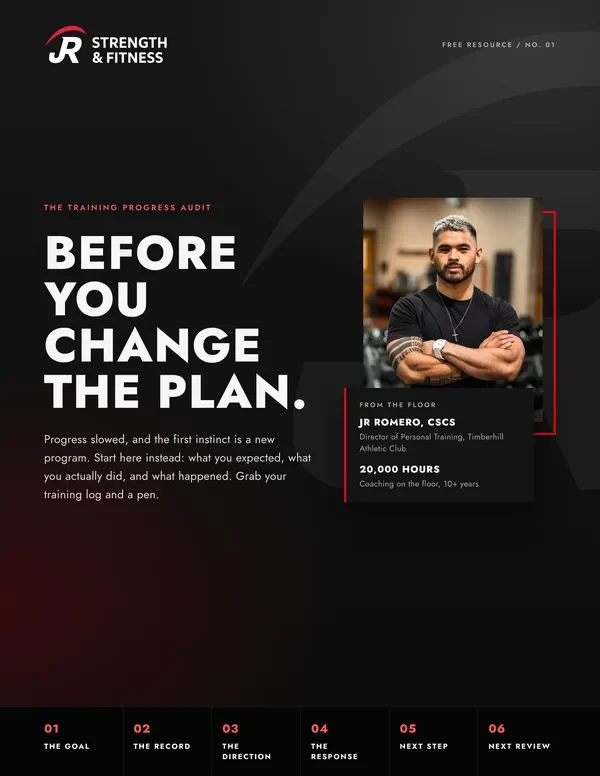
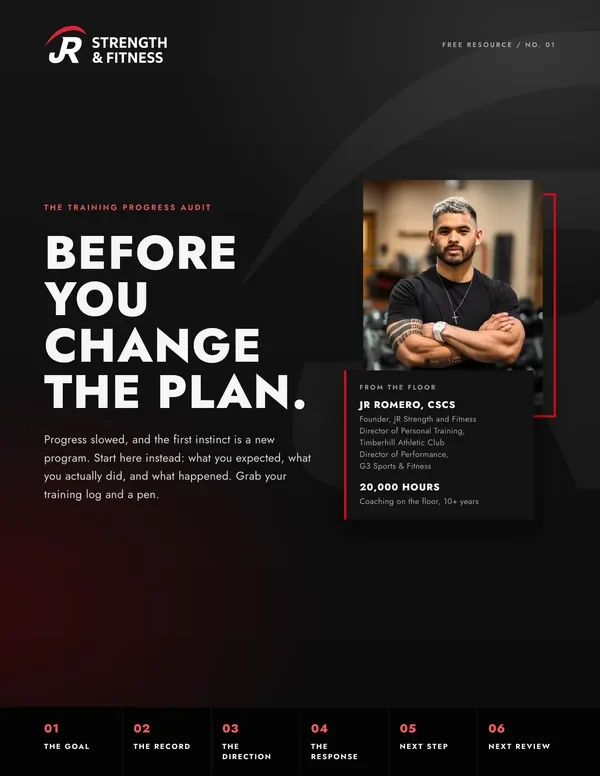
Connect the Blueprint landing page to Kit form 10127073
Kit automation 'LM10 Exercise Selection Blueprint delivery': form -> tag lm-exercise-selection-blueprint -> sequence 2952502.

Claude-Session: https://claude.ai/code/session_01GC7HnpLHCtzCxcRpYwJwrv

diff --git a/public/resources/exercise-selection-blueprint.html b/public/resources/exercise-selection-blueprint.html
@@ -67,7 +67,7 @@ if('IntersectionObserver' in window && !(window.matchMedia && matchMedia('(prefe
 
 </div>
 <div class="side"><form class="form-card rs-form" method="post" action="#" novalidate data-resource="exercise-selection-blueprint"
- data-kit="" data-nl="10028376" data-source="src-lm-blueprint" data-thanks="/resources/exercise-selection-blueprint/thanks" data-title="The Exercise Selection Blueprint" data-pdf="https://www.jrstrengthandfitness.com/resources/exercise-selection-blueprint.pdf">
+ data-kit="10127073" data-nl="10028376" data-source="src-lm-blueprint" data-thanks="/resources/exercise-selection-blueprint/thanks" data-title="The Exercise Selection Blueprint">
 <div class="hp" aria-hidden="true"><label>Leave this empty <input type="text" name="_honey" tabindex="-1" autocomplete="off"></label></div>
 <div class="field"><label for="rs-first-exercise-selection-blueprint">First name <span class="hint">optional</span></label>
 <input id="rs-first-exercise-selection-blueprint" name="fields[first_name]" type="text" autocomplete="given-name"></div>

diff --git a/src/resources.py b/src/resources.py
@@ -91,7 +91,7 @@ RESOURCES = [
     dict(
         slug="exercise-selection-blueprint", live=True, lane="coaching",
         title="The Exercise Selection Blueprint", short="the Blueprint", brand="JR Strength &amp; Fitness",
-        kit_form="",                       # Kit form "LM: Exercise Selection Blueprint" (fill in once created)
+        kit_form="10127073",               # Kit form "LM: Exercise Selection Blueprint"
         email_subject="Your Exercise Selection Blueprint",  # subject of sequence 2952502's first email
         tag="lm-exercise-selection-blueprint", source="src-lm-blueprint",
         sequence="LM10 Exercise Selection Blueprint: delivery + follow-ups",
